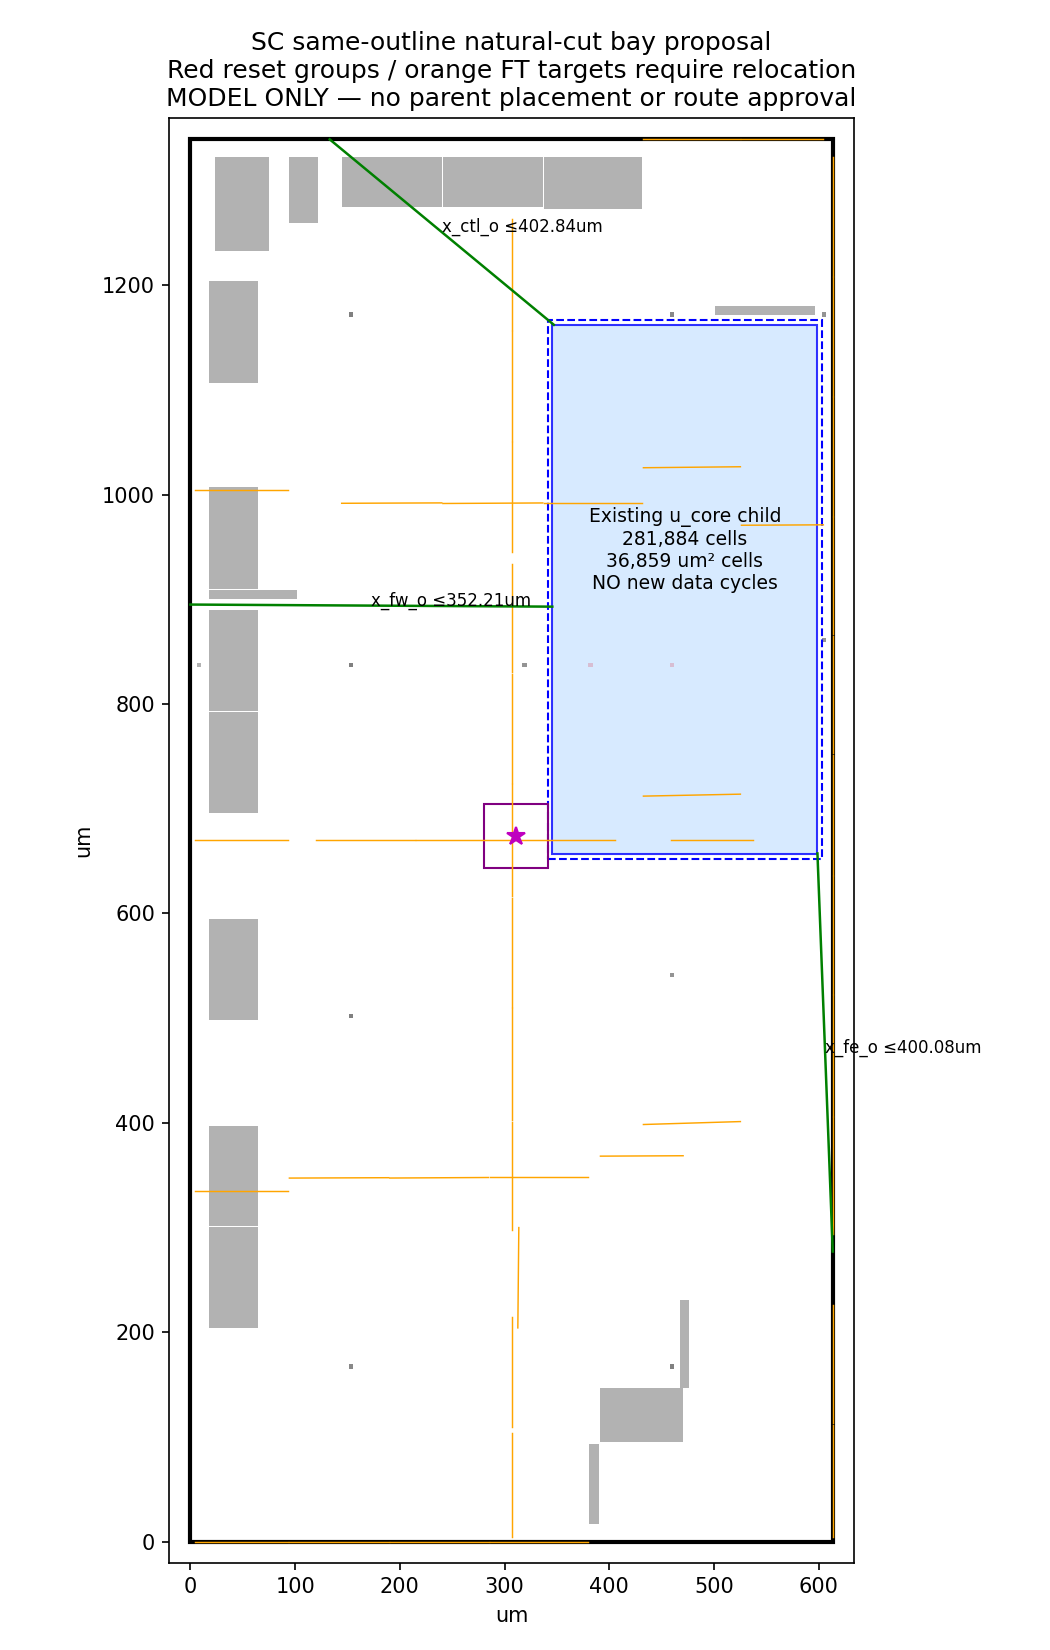
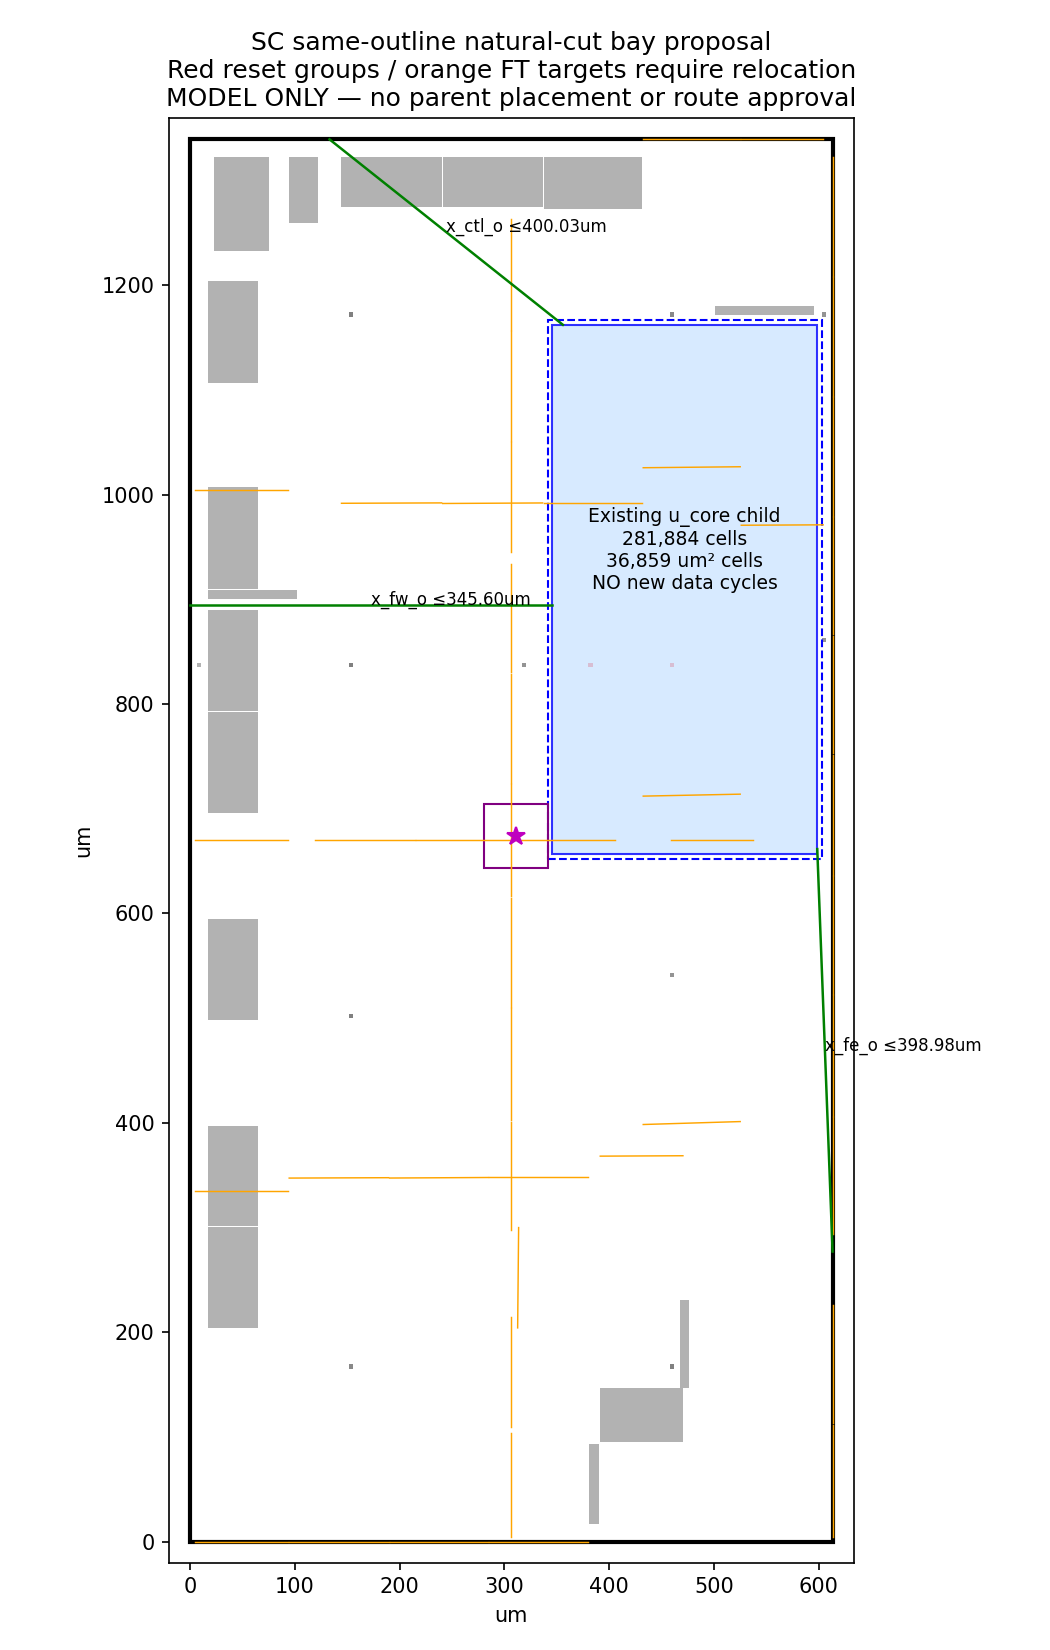
Preserve qualified SC parent pin spacing in child output plan
Replace invalid compact illustrative slots with source-correlated affine copies of existing payload pins/layers. No density exception; exact source bit mapping and input/FT/reset qualification remain required.

diff --git a/results/sc_cap_bay_1030/bay_model.py b/results/sc_cap_bay_1030/bay_model.py
@@ -15,14 +15,14 @@ halo=4.32
 area=36859.27518
 usable=(B[2]-B[0]-2*halo)*(B[3]-B[1]-2*halo)
 faces={b['bus']:b for b in F['buses']}
-# Independent span bounds: all output bits are covered without assuming an
-# undocumented per-bit correspondence. Two signal layers give one slot per pair.
-N=[B[0]+.048,B[0]+.048+59*.048,B[3],B[3]]
-E=[B[2],B[2],B[1]+.048,B[1]+.048+23*.048]
-A=[B[0],B[0],892.368,893.472]
-def bound(pin,face):
- return max(abs(x-y)+abs(a-b) for x in pin[:2] for y in [face['xmin'],face['xmax']] for a in pin[2:] for b in [face['ymin'],face['ymax']])
-reach={bus:bound(pin,faces[bus]) for bus,pin in [('x_ctl_o',N),('x_fe_o',E),('x_fw_o',A)]}
+# Copy the actual parent payload pin spacing/layers, preserving track phase.
+# The child source net map must assign each raw output bit to its parent payload
+# bit; parent epoch pins are not child ports. Compact slots would violate the
+# ordinary per-port occupancy budget, so no density exception is assumed.
+f=faces['x_ctl_o'];N=[f['xmin']+222.912,f['xmax']+222.912,B[3],B[3]]
+f=faces['x_fe_o'];E=[B[2],B[2],f['ymin']+384.336,f['ymax']+384.336]
+f=faces['x_fw_o'];A=[B[0],B[0],f['ymin'],f['ymax']]
+reach={'x_ctl_o':222.912+H-B[3], 'x_fe_o':W-B[2]+384.336, 'x_fw_o':B[0]}
 def overlaps(b):
  return B[0]-halo<b[2] and b[0]<B[2]+halo and B[1]-halo<b[3] and b[1]<B[3]+halo
 hit=[q for q in D['landing_groups'] if overlaps(q['rect_um'])]
@@ -34,9 +34,10 @@ for f in D['ft_target_envelopes']:
 report=dict(verdict='CONDITIONAL CHILD PLAN ONLY; parent placement HOLD',body_um=B,halo_um=halo,
  child_cells=281884,parent_remaining_cells=260481,child_cell_area_um2=area,
  usable_child_core_area_um2=usable,child_utilization=area/usable,
- parent_outline_um=[W,H],state_or_data_cycles_added=0,output_port_to_public_face_L1_upper_um=reach,
+ parent_outline_um=[W,H],state_or_data_cycles_added=0,output_port_to_public_face_bit_correlated_L1_um=reach,
  output_proxy_all_le405=all(v<=405 for v in reach.values()),
- source_scope='Existing u_bound.u_core only. 27ports/572bits unchanged. Output-pin model is not actual parent boutFF geometry or child timing.',
+ source_scope='Existing u_bound.u_core only. 27ports/572bits unchanged. Affine copies preserve actual parent payload spacing/layers. Exact child-output net to parent-payload bit mapping is required; epoch pins omitted. This is not actual parent boutFF geometry or child timing.',
+ output_pin_transforms=dict(N=dict(x_add=222.912,y=B[3]),E=dict(x=B[2],y_add=384.336),W=dict(x=B[0],y_add=0)),
  preserved_parent_clock_reset=[311.04,673.92],preserved_count_strap_bounds=[280.8,643.68,341.28,704.16],
  intersecting_reserved_groups=hit,intersecting_FT_ideal_stages=ft,
  required_work=['Move same-depth reset/run/collector instances intersecting bay and recheck entire reset graph.',
@@ -63,4 +64,4 @@ for bus,pin in [('x_ctl_o',N),('x_fe_o',E),('x_fw_o',A)]:
 ax.set_xlim(-20,W+20);ax.set_ylim(-20,H+20);ax.set_aspect('equal');ax.set_xlabel('um');ax.set_ylabel('um')
 ax.set_title('SC same-outline natural-cut bay proposal\nRed reset groups / orange FT targets require relocation\nMODEL ONLY — no parent placement or route approval')
 fig.tight_layout();fig.savefig(R/'bay_model.png',dpi=150)
-print(json.dumps({k:report[k] for k in ['body_um','child_utilization','output_port_to_public_face_L1_upper_um','output_proxy_all_le405']},indent=1))
+print(json.dumps({k:report[k] for k in ['body_um','child_utilization','output_port_to_public_face_bit_correlated_L1_um','output_proxy_all_le405']},indent=1))

diff --git a/results/sc_cap_bay_1030/REVIEW.md b/results/sc_cap_bay_1030/REVIEW.md
@@ -1,5 +1,5 @@
 Personally viewed bay_model.png. Candidate body [345.6,656.64,598.8,1162.08] keeps the existing 613.44x1339.2 parent outline, published public faces, parent clock/reset tap and all current count-strap sites outside the child body. The existing child has 281884 standard cells and36859.27518um² cell area; remaining wrapper260481 cells. Usable child core is30.34% occupied by current mapped cells, below0.6. The27port/572bit interface is unchanged; no arithmetic/state/data cycles are removed or added.
 
-Conservative independent output-face span bounds fit405um: N402.84, E400.08, W352.208. These are port-to-public-face proxies, not actual boutFF coordinates, routed delay or child internal timing. N/E are close enough that exact emitted pins and actual parent anchors are mandatory. Proposed N119outputs use M5/M7 paired tracks near child northwest corner; E48outputs use M4/M6 paired tracks near its southeast corner; W48outputs use M4/M6 near y893. Input faces still require source-correlated CA read/R8 final-stage placement.
+Corrected source-correlated output-face paths fit405um: N400.032,E398.976,W345.6. Use the actual parent payload pin spacing and layers, not compact illustrative slots: N x+222.912 at y1162.08, E y+384.336 at x598.8, W unchangedy at x345.6. The child-local pin map subtracts origin[345.6,656.64]. Exact raw output-to-parent payload bit mapping is mandatory (N119composition,E=up_o48,W=dn_o48); parent epoch bits are omitted. Thus normal per-port track occupancy and face density are inherited from the existing parent tables, with no exception. The initial compact-slot illustration in b45d is superseded because its high track occupancy was not valid. These source-correlated port-to-public-face paths are not actual boutFF coordinates, routed delay or child internal timing. Input faces still require source-correlated CA read/R8 final-stage placement.
 
 CONDITIONAL for child source/pin-plan preparation only. PARENT PHYSICAL FAIL/HOLD: four existing reset collector/raw-copy groups and six ideal FT-stage groups intersect the bay. The picture explicitly shows those conflicts. Same-depth reset/run relay group relocations must retain the actual graph, and existing FT stages must be re-placed around the body with complete per-bit reach, .4 reserved footprints and street capacity. No new FF stage or cycle is authorized by this model. Every actual fixed/TAP/firm/software-reservation footprint and clock/PG contract remains to qualify. No route or parent placement approval.
